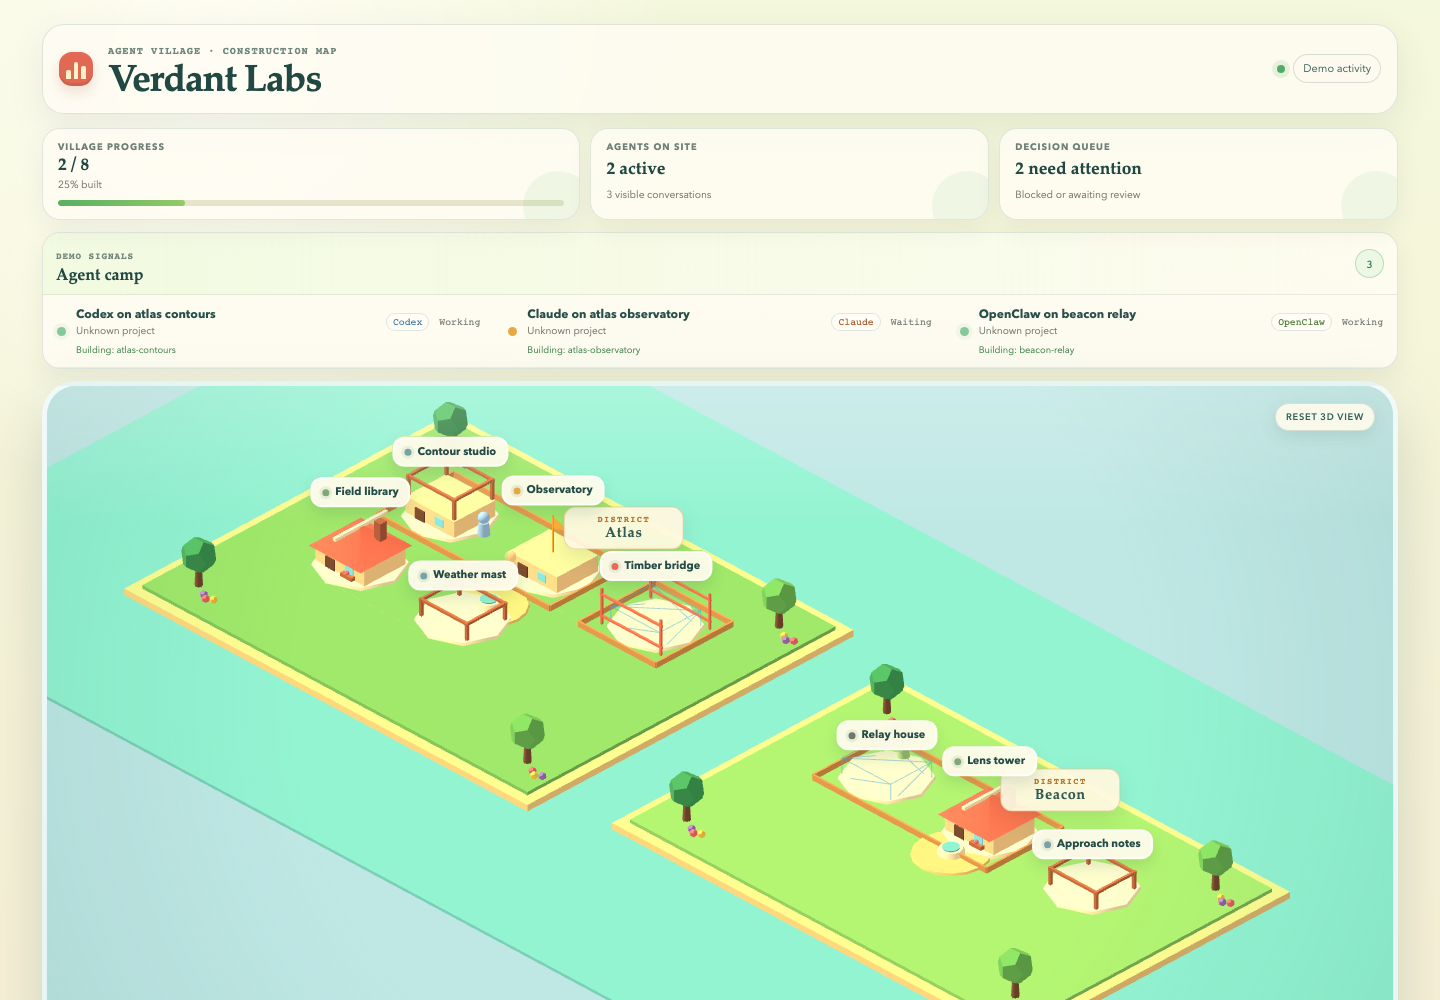
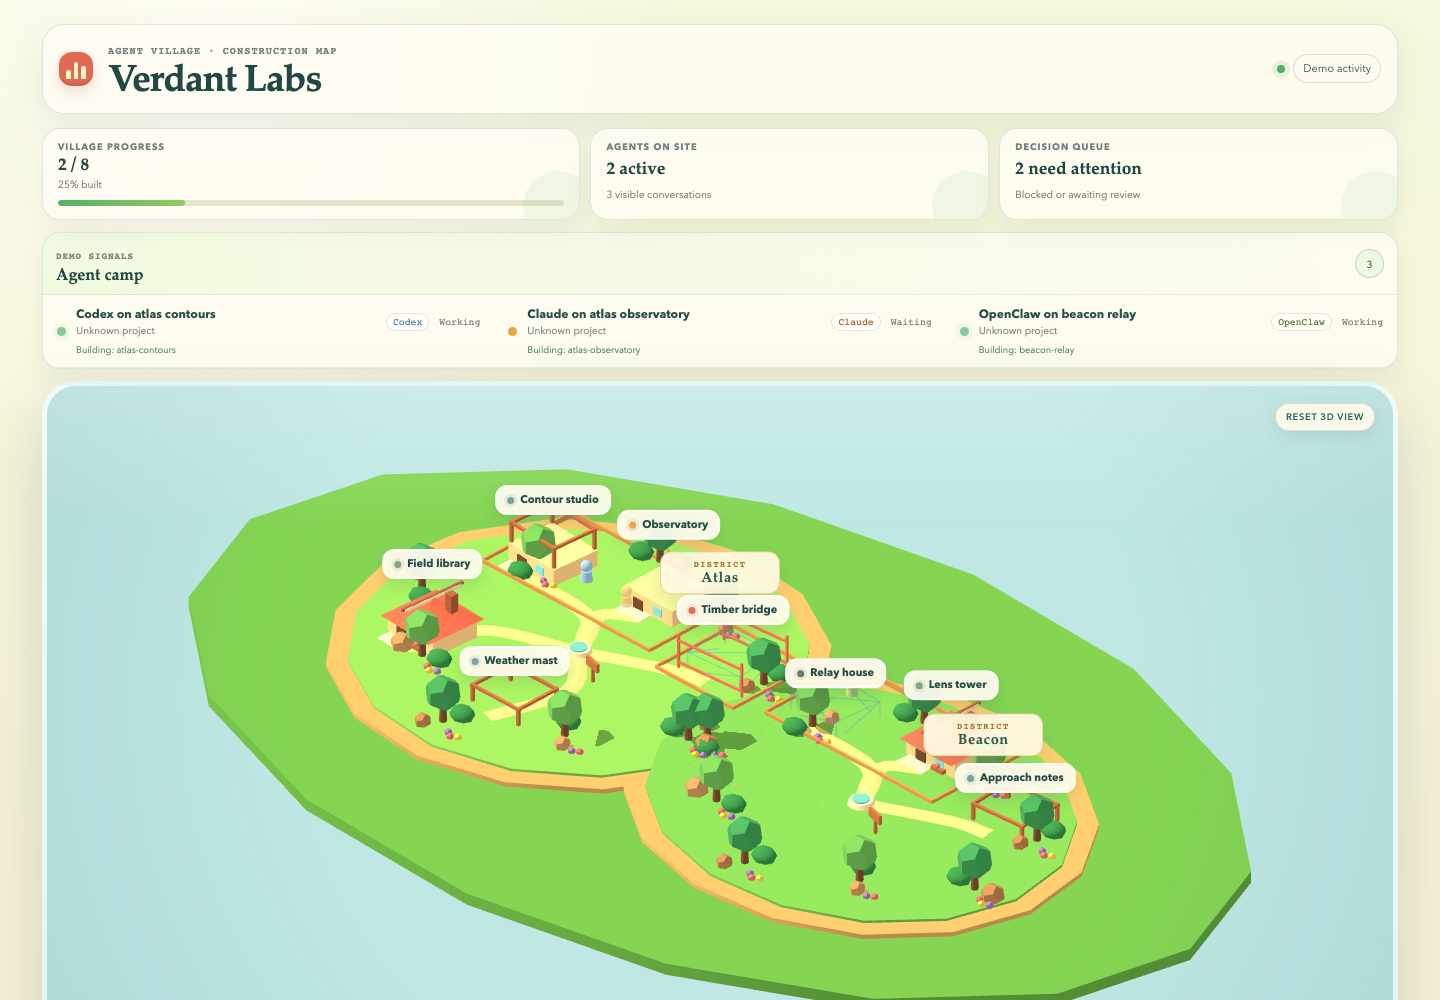
feat(design): reshape village into organic game world
🤖 Generated with [Claude Code](https://claude.com/claude-code)

diff --git a/src/client/scene3d/sceneFactory.ts b/src/client/scene3d/sceneFactory.ts
@@ -1,13 +1,15 @@
 import {
   Box3,
   BoxGeometry,
-  ConeGeometry,
+  CatmullRomCurve3,
   CylinderGeometry,
   DodecahedronGeometry,
   Group,
   Material,
   Mesh,
   MeshStandardMaterial,
+  SphereGeometry,
+  TubeGeometry,
   Vector3,
 } from 'three';
 import type { DerivedWorkspace } from '../../server/truth/derive.js';
@@ -17,18 +19,18 @@ import { layoutVillage3d } from './layout3d.js';
 import type { BuildingPlacement, VillageLayout3d } from './types.js';
 import { createWorkerGroup } from './workers3d.js';
 
-const districtGeometry = new BoxGeometry(1, 0.42, 1);
+const terrainGeometry = new CylinderGeometry(1, 1, 1, 16);
 const fenceXGeometry = new BoxGeometry(1, 0.38, 0.12);
 const fenceZGeometry = new BoxGeometry(0.12, 0.38, 1);
 const districtMaterials = [
-  new MeshStandardMaterial({ color: 0x78bd65, roughness: 0.92 }),
-  new MeshStandardMaterial({ color: 0x88c86d, roughness: 0.92 }),
+  new MeshStandardMaterial({ color: 0x83c95f, roughness: 0.94 }),
+  new MeshStandardMaterial({ color: 0x72be59, roughness: 0.94 }),
 ];
-const sandMaterial = new MeshStandardMaterial({ color: 0xf2cf8d, roughness: 0.98 });
+const meadowMaterial = new MeshStandardMaterial({ color: 0x62ad4d, roughness: 0.98 });
+const cliffMaterial = new MeshStandardMaterial({ color: 0xd8a86b, roughness: 1 });
 const waterMaterial = new MeshStandardMaterial({ color: 0x72cbd2, roughness: 0.32, metalness: 0.03 });
 const fenceMaterial = new MeshStandardMaterial({ color: 0xd29354, roughness: 0.86 });
-const pathGeometry = new BoxGeometry(1, 0.07, 1);
-const pathMaterial = new MeshStandardMaterial({ color: 0xf7dda8, roughness: 1 });
+const pathMaterial = new MeshStandardMaterial({ color: 0xf4d18f, roughness: 1 });
 const trunkGeometry = new CylinderGeometry(0.18, 0.24, 1.2, 8);
 const crownGeometry = new DodecahedronGeometry(1.05, 0);
 const trunkMaterial = new MeshStandardMaterial({ color: 0x765038, roughness: 1 });
@@ -47,6 +49,16 @@ const flowerMaterials = [
   new MeshStandardMaterial({ color: 0xf9cf54, roughness: 0.8 }),
   new MeshStandardMaterial({ color: 0x9d72d2, roughness: 0.8 }),
 ];
+const rockGeometry = new DodecahedronGeometry(0.55, 0);
+const rockMaterials = [
+  new MeshStandardMaterial({ color: 0xb48358, roughness: 1 }),
+  new MeshStandardMaterial({ color: 0xc19568, roughness: 1 }),
+];
+const shrubGeometry = new SphereGeometry(0.65, 8, 6);
+const shrubMaterial = new MeshStandardMaterial({ color: 0x328f50, roughness: 1 });
+const signPostGeometry = new CylinderGeometry(0.09, 0.12, 1.5, 8);
+const signBoardGeometry = new BoxGeometry(1.15, 0.55, 0.18);
+const signMaterial = new MeshStandardMaterial({ color: 0xb96d43, roughness: 0.9 });
 
 export interface SceneContent {
   root: Group;
@@ -106,16 +118,19 @@ function addDistrictLandscape(
 ): void {
   const paths = new Group();
   paths.name = `path:${projectId}`;
-  for (const placement of projectBuildings) {
-    const horizontal = new Mesh(pathGeometry, pathMaterial);
-    horizontal.scale.set(Math.max(0.8, Math.abs(placement.x - districtX)), 1, 0.65);
-    horizontal.position.set((placement.x + districtX) / 2, 0.03, placement.z + 2.25);
-    horizontal.receiveShadow = true;
-    const vertical = new Mesh(pathGeometry, pathMaterial);
-    vertical.scale.set(0.65, 1, Math.max(0.8, Math.abs(placement.z + 2.25 - districtZ)));
-    vertical.position.set(districtX, 0.03, (placement.z + 2.25 + districtZ) / 2);
-    vertical.receiveShadow = true;
-    paths.add(horizontal, vertical);
+  for (const [index, placement] of projectBuildings.entries()) {
+    const bend = index % 2 === 0 ? 1.8 : -1.8;
+    const curve = new CatmullRomCurve3([
+      new Vector3(districtX, 0, districtZ),
+      new Vector3((districtX + placement.x) / 2 + bend, 0, (districtZ + placement.z) / 2),
+      new Vector3(placement.x, 0, placement.z + 2.1),
+    ]);
+    const trail = new Mesh(new TubeGeometry(curve, 18, 0.62, 6, false), pathMaterial);
+    trail.name = `trail:${projectId}:${placement.taskId}`;
+    trail.scale.y = 0.16;
+    trail.position.y = 0.18;
+    trail.receiveShadow = true;
+    paths.add(trail);
   }
   district.add(paths);
 
@@ -131,14 +146,26 @@ function addDistrictLandscape(
   plaza.add(plazaFloor, fountainBase, fountainWater);
   district.add(plaza);
 
+  const signpost = new Group();
+  signpost.name = `signpost:${projectId}`;
+  const signPost = new Mesh(signPostGeometry, signMaterial);
+  signPost.position.set(districtX + 2.7, 0.75, districtZ + 1.6);
+  const signBoard = new Mesh(signBoardGeometry, signMaterial);
+  signBoard.position.set(districtX + 2.7, 1.35, districtZ + 1.6);
+  signBoard.rotation.y = -0.25;
+  signpost.add(signPost, signBoard);
+  district.add(signpost);
+
   const insetX = width / 2 - 2.2;
   const insetZ = depth / 2 - 2.2;
-  const positions = [
-    [districtX - insetX, districtZ - insetZ],
-    [districtX + insetX, districtZ - insetZ],
-    [districtX - insetX, districtZ + insetZ],
-    [districtX + insetX, districtZ + insetZ],
-  ] as const;
+  const positions = Array.from({ length: 9 }, (_, index) => {
+    const angle = index / 9 * Math.PI * 2 + 0.2;
+    const radiusScale = index % 2 === 0 ? 1 : 0.82;
+    return [
+      districtX + Math.cos(angle) * insetX * radiusScale,
+      districtZ + Math.sin(angle) * insetZ * radiusScale,
+    ] as const;
+  });
   positions.forEach(([x, z], index) => {
     district.add(createTree(`tree:${projectId}:${index}`, x, z, index));
     const flowers = new Group();
@@ -150,6 +177,18 @@ function addDistrictLandscape(
       flowers.add(flower);
     }
     district.add(flowers);
+    const rock = new Mesh(rockGeometry, rockMaterials[index % rockMaterials.length]);
+    rock.name = `cliff-rock:${projectId}:${index}`;
+    rock.position.set(x + Math.cos(index) * 1.4, 0.42, z + Math.sin(index) * 1.1);
+    rock.scale.setScalar(index % 3 === 0 ? 1.3 : 0.9);
+    rock.castShadow = true;
+    district.add(rock);
+    const shrub = new Mesh(shrubGeometry, shrubMaterial);
+    shrub.name = `shrub:${projectId}:${index}`;
+    shrub.position.set(x - Math.cos(index) * 1.2, 0.45, z - Math.sin(index) * 1.1);
+    shrub.scale.set(1.2, 0.78, 1);
+    shrub.castShadow = true;
+    district.add(shrub);
   });
 }
 
@@ -163,27 +202,30 @@ export function buildSceneContent(village: DerivedWorkspace): SceneContent {
   const buildingAnchors = new Map<string, Vector3>();
   const placements = new Map(layout.buildings.map((placement) => [placement.taskId, placement]));
 
-  const water = new Mesh(districtGeometry, waterMaterial);
-  water.name = 'world-water';
-  water.scale.set(layout.width + 26, 0.45, layout.depth + 22);
-  water.position.set(0, -0.72, 0);
-  water.receiveShadow = true;
-  root.add(water);
+  const meadow = new Mesh(terrainGeometry, meadowMaterial);
+  meadow.name = 'world-meadow';
+  meadow.scale.set((layout.width + 20) / 2, 0.72, (layout.depth + 18) / 2);
+  meadow.position.set(0, -0.56, 0);
+  meadow.rotation.y = 0.08;
+  meadow.receiveShadow = true;
+  root.add(meadow);
 
   layout.districts.forEach((placement, index) => {
     const district = new Group();
     district.name = `district:${placement.projectId}`;
-    const sand = new Mesh(districtGeometry, sandMaterial);
-    sand.name = `district-sand:${placement.projectId}`;
-    sand.scale.set(placement.width + 1.4, 1, placement.depth + 1.4);
-    sand.position.set(placement.x, -0.36, placement.z);
-    sand.receiveShadow = true;
-    const grass = new Mesh(districtGeometry, districtMaterials[index % districtMaterials.length]);
-    grass.name = `district-grass:${placement.projectId}`;
-    grass.scale.set(placement.width, 1, placement.depth);
-    grass.position.set(placement.x, -0.14, placement.z);
-    grass.receiveShadow = true;
-    district.add(sand, grass);
+    const cliff = new Mesh(terrainGeometry, cliffMaterial);
+    cliff.name = `district-cliff:${placement.projectId}`;
+    cliff.scale.set(placement.width / 2 + 1.2, 0.55, placement.depth / 2 + 1.2);
+    cliff.position.set(placement.x, -0.2, placement.z);
+    cliff.rotation.y = index % 2 === 0 ? 0.08 : -0.07;
+    cliff.receiveShadow = true;
+    const terrain = new Mesh(terrainGeometry, districtMaterials[index % districtMaterials.length]);
+    terrain.name = `district-terrain:${placement.projectId}`;
+    terrain.scale.set(placement.width / 2, 0.36, placement.depth / 2);
+    terrain.position.set(placement.x, 0.05, placement.z);
+    terrain.rotation.y = cliff.rotation.y;
+    terrain.receiveShadow = true;
+    district.add(cliff, terrain);
     addDistrictLandscape(
       district,
       placement.projectId,

diff --git a/src/client/scene3d/buildingFactory.ts b/src/client/scene3d/buildingFactory.ts
@@ -30,6 +30,8 @@ const chimneyGeometry = new BoxGeometry(0.5, 1.15, 0.5);
 const flowerBoxGeometry = new BoxGeometry(0.9, 0.22, 0.3);
 const flowerGeometry = new SphereGeometry(0.14, 8, 6);
 const foundationGeometry = new CylinderGeometry(2.65, 2.75, 0.22, 8);
+const porchGeometry = new BoxGeometry(1.9, 0.18, 1.05);
+const roofRidgeGeometry = new BoxGeometry(0.16, 0.16, 4.45);
 
 function stableIndex(value: string, modulo: number): number {
   return [...value].reduce((sum, character) => sum + character.charCodeAt(0), 0) % modulo;
@@ -133,7 +135,10 @@ export function createBuildingGroup(task: DerivedTask): Group {
     const window = markPickable(new Mesh(windowGeometry, buildingMaterials.window), task.id);
     window.name = 'window';
     window.position.set(0.78, 0.78, 1.65);
-    building.add(door, window);
+    const porch = markPickable(new Mesh(porchGeometry, buildingMaterials.trim), task.id);
+    porch.name = 'porch';
+    porch.position.set(-0.7, 0.2, 2.05);
+    building.add(door, window, porch);
   }
 
   if (spec.roof) {
@@ -145,6 +150,9 @@ export function createBuildingGroup(task: DerivedTask): Group {
     const roofCap = markPickable(new Mesh(roofCapGeometry, buildingMaterials.trim), task.id);
     roofCap.name = 'roof-cap';
     roofCap.position.set(0, height + 1.28, 0);
+    const roofRidge = markPickable(new Mesh(roofRidgeGeometry, buildingMaterials.chimney), task.id);
+    roofRidge.name = 'roof-ridge';
+    roofRidge.position.set(0, height + 1.35, 0);
     const chimney = markPickable(new Mesh(chimneyGeometry, buildingMaterials.chimney), task.id);
     chimney.name = 'chimney';
     chimney.position.set(1.05, height + 1.25, -0.5);
@@ -154,7 +162,7 @@ export function createBuildingGroup(task: DerivedTask): Group {
     const flower = markPickable(new Mesh(flowerGeometry, buildingMaterials.flower), task.id);
     flower.name = 'flower';
     flower.position.set(0.78, 0.68, 1.82);
-    building.add(roof, roofCap, chimney, flowerBox, flower);
+    building.add(roof, roofCap, roofRidge, chimney, flowerBox, flower);
   }
   if (spec.scaffold) building.add(createScaffold(Math.max(2.4, height)));
   if (spec.flag) building.add(createReviewFlag(height));

diff --git a/src/client/scene3d/layout3d.ts b/src/client/scene3d/layout3d.ts
@@ -2,12 +2,15 @@ import type { DerivedWorkspace } from '../../server/truth/derive.js';
 import type { BuildingPlacement, DistrictPlacement, VillageLayout3d } from './types.js';
 
 const DISTRICT_COLUMNS = 2;
-const DISTRICT_WIDTH = 30;
-const DISTRICT_GAP = 6;
+const DISTRICT_WIDTH = 26;
+const DISTRICT_GAP = -4;
 const PLOT_COLUMNS = 3;
-const PLOT_X_GAP = 8;
-const PLOT_Z_GAP = 7;
-const PLOT_TOP_INSET = 7;
+const PLOT_Z_GAP = 6.5;
+
+const VILLAGE_OFFSETS = [
+  [-7.5, -5.5], [0, -7], [7.2, -4.8],
+  [-7, 4.4], [1.2, 6.2], [8, 4.5],
+] as const;
 
 interface ProjectSize {
   width: number;
@@ -18,7 +21,7 @@ function projectSize(taskCount: number): ProjectSize {
   const rows = Math.max(1, Math.ceil(taskCount / PLOT_COLUMNS));
   return {
     width: DISTRICT_WIDTH,
-    depth: Math.max(20, 10 + rows * PLOT_Z_GAP),
+    depth: Math.max(22, 12 + rows * PLOT_Z_GAP),
   };
 }
 
@@ -73,15 +76,17 @@ export function layoutVillage3d(village: DerivedWorkspace): VillageLayout3d {
         ...project.tasks.map((task) => ({ task, compoundId: undefined })),
       ];
       tasks.forEach(({ task, compoundId }, index) => {
-        const plotColumn = index % PLOT_COLUMNS;
-        const plotRow = Math.floor(index / PLOT_COLUMNS);
+        const villageOffset = VILLAGE_OFFSETS[index];
+        const overflowIndex = Math.max(0, index - VILLAGE_OFFSETS.length);
+        const plotColumn = overflowIndex % PLOT_COLUMNS;
+        const plotRow = Math.floor(overflowIndex / PLOT_COLUMNS);
         buildings.push({
           taskId: task.id,
           projectId: project.id,
           compoundId,
-          x: districtX - DISTRICT_WIDTH / 2 + 7 + plotColumn * PLOT_X_GAP,
-          z: districtZ - size.depth / 2 + PLOT_TOP_INSET + plotRow * PLOT_Z_GAP,
-          rotationY: 0,
+          x: districtX + (villageOffset?.[0] ?? -7 + plotColumn * 7),
+          z: districtZ + (villageOffset?.[1] ?? 10 + plotRow * PLOT_Z_GAP),
+          rotationY: ((index % 3) - 1) * 0.07,
         });
       });
     });

diff --git a/src/client/scene3d/sceneFactory.test.ts b/src/client/scene3d/sceneFactory.test.ts
@@ -61,11 +61,17 @@ describe('buildSceneContent', () => {
     expect(content.root.getObjectByName('compound:atlas-yard')).toBeDefined();
     expect(content.root.getObjectByName('path:atlas')).toBeDefined();
     expect(content.root.getObjectByName('tree:atlas:0')).toBeDefined();
-    expect(content.root.getObjectByName('world-water')).toBeDefined();
-    expect(content.root.getObjectByName('district-sand:atlas')).toBeDefined();
-    expect(content.root.getObjectByName('district-grass:atlas')).toBeDefined();
+    expect(content.root.getObjectByName('world-meadow')).toBeDefined();
+    expect(content.root.getObjectByName('world-water')).toBeUndefined();
+    expect(content.root.getObjectByName('district-cliff:atlas')).toBeDefined();
+    expect(content.root.getObjectByName('district-terrain:atlas')).toBeDefined();
     expect(content.root.getObjectByName('plaza:atlas')).toBeDefined();
     expect(content.root.getObjectByName('flower-bed:atlas:0')).toBeDefined();
+    expect(content.root.getObjectByName('cliff-rock:atlas:0')).toBeDefined();
+    expect(content.root.getObjectByName('shrub:atlas:0')).toBeDefined();
+    expect(content.root.getObjectByName('signpost:atlas')).toBeDefined();
+    const atlasPaths = content.root.getObjectByName('path:atlas');
+    expect(atlasPaths?.children.some((child) => (child as Mesh).geometry?.type === 'TubeGeometry')).toBe(true);
     expect([...content.buildings.keys()]).toEqual([
       'atlas-bridge', 'atlas-observatory', 'atlas-library', 'beacon-relay',
     ]);

diff --git a/src/client/scene3d/buildingSpec.test.ts b/src/client/scene3d/buildingSpec.test.ts
@@ -67,6 +67,8 @@ describe('createBuildingGroup', () => {
     expect(verified.getObjectByName('roof-cap')).toBeDefined();
     expect(verified.getObjectByName('chimney')).toBeDefined();
     expect(verified.getObjectByName('flower-box')).toBeDefined();
+    expect(verified.getObjectByName('porch')).toBeDefined();
+    expect(verified.getObjectByName('roof-ridge')).toBeDefined();
     expect(blocked.getObjectByName('scaffold')).toBeDefined();
     expect(review.getObjectByName('review-flag')).toBeDefined();
     expect(verified.children.some((child) => child.userData.pickable === true)).toBe(true);

diff --git a/src/client/scene3d/layout3d.test.ts b/src/client/scene3d/layout3d.test.ts
@@ -63,6 +63,8 @@ describe('layoutVillage3d', () => {
     ]);
     expect(new Set(layout.buildings.map(({ x, z }) => `${x}:${z}`)).size)
       .toBe(layout.buildings.length);
+    expect(Math.abs(layout.districts[0]!.x - layout.districts[1]!.x)).toBeLessThan(30);
+    expect(layout.buildings.some(({ rotationY }) => rotationY !== 0)).toBe(true);
     expect(layoutVillage3d(village)).toEqual(layout);
   });
 
